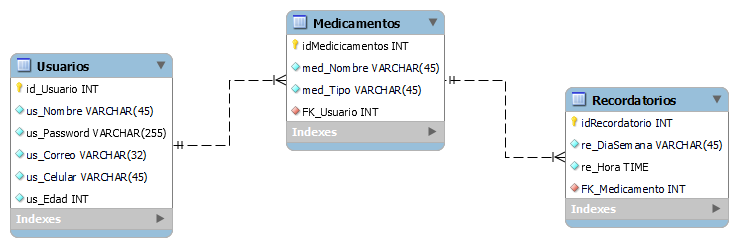
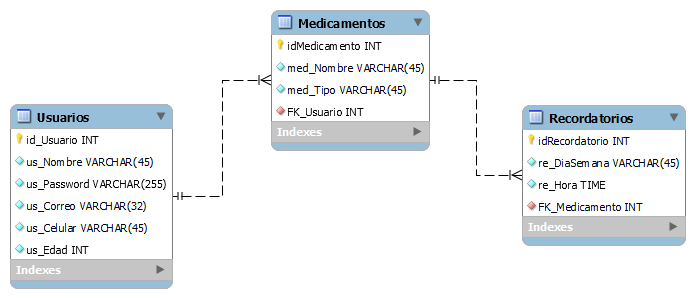
Api medicamentos y recordatorios registrar y ver

Changed region(s): [[0.0, 0.0283, 0.695, 0.9919], [0.6647, 0.3401, 0.9971, 0.9352]]

diff --git a/api/mediApi/rec.js b/api/mediApi/rec.js
@@ -1,0 +1,72 @@
+const express = require('express');
+const router = express.Router();
+var db = require('./db.js');
+
+// registrar recordatorio
+router.route('/register').post((req, res) => {
+    //obtener parametros
+    var diaSemana = req.body.diaSemana;
+    var hora = req.body.hora;
+    var fk_med = req.body.fk_med;
+
+    //crear Query 
+    var sqlQuery = "INSERT INTO Recordatorios(re_DiaSemana, re_Hora, FK_Medicamento) VALUES (?, ?, ?)";
+
+    //llamar a la base de datos para insertar
+    db.query(sqlQuery, [diaSemana, hora, fk_med], function (error, data, fields) {
+        if (error) {
+            //Por si sale mal
+            res.send(JSON.stringify({ success: false, message: error }));
+        } else {
+            //Por si sale bien
+            res.send(JSON.stringify({ success: true, message: 'recordatorio registrado ' }));
+        }
+    });
+
+});
+
+// ver recordatorios por dia de la semana
+router.route('/dia/:idusuario/:diasemana').get((req, res) => {
+    var userId = req.params.idusuario;
+    var diaSemana = req.params.diasemana;
+
+
+    var sql = "select Recordatorios.*, Medicamentos.med_Nombre, Medicamentos.med_Tipo from Recordatorios, Medicamentos, Usuarios where Medicamentos.idMedicamento=Recordatorios.FK_Medicamento and Usuarios.id_Usuario=Medicamentos.FK_Usuario and Usuarios.id_Usuario =? and Recordatorios.re_DiaSemana=? ;";
+    db.query(sql, [userId,diaSemana], function (err, data, fields) {
+        if (err) {
+            res.send(JSON.stringify({ success: false, message: err }));
+        } else {
+            if (data.length > 0) {
+
+                res.send(JSON.stringify({ success: true, recordatorio: data }));
+            } else {
+                res.send(JSON.stringify({ success: false, message: 'No hay recordatorios este dia' }));
+            }
+
+        }
+    });
+});
+
+// ver recordatorios por dia de la medicamento
+router.route('/medi/:idusuario/:idmed').get((req, res) => {
+    var userId = req.params.idusuario;
+    var idMed = req.params.idmed;
+
+
+    var sql = "select Recordatorios.*, Medicamentos.med_Nombre, Medicamentos.med_Tipo from Recordatorios, Medicamentos, Usuarios where Medicamentos.idMedicamento=Recordatorios.FK_Medicamento and Usuarios.id_Usuario=Medicamentos.FK_Usuario and Usuarios.id_Usuario =? and Medicamentos.idMedicamento =? ;";
+    db.query(sql, [userId,idMed], function (err, data, fields) {
+        if (err) {
+            res.send(JSON.stringify({ success: false, message: err }));
+        } else {
+            if (data.length > 0) {
+
+                res.send(JSON.stringify({ success: true, recordatorio: data }));
+            } else {
+                res.send(JSON.stringify({ success: false, message: 'No hay recordatorios de este medicamento' }));
+            }
+
+        }
+    });
+});
+
+module.exports = router;

diff --git a/api/mediApi/med.js b/api/mediApi/med.js
@@ -1,0 +1,46 @@
+const express = require('express');
+const router = express.Router();
+var db = require('./db.js');
+
+router.route('/register').post((req, res) => {
+    //obtener parametros
+    var nombreMed = req.body.nombreMed;
+    var medTipo = req.body.medTipo;
+    var fk_usuario = req.body.fk_usuario;
+
+    //crear Query 
+    var sqlQuery = "INSERT INTO Medicamentos(med_Nombre, med_Tipo, FK_Usuario) VALUES (?, ?, ?)";
+
+    //llamar a la base de datos para insertar
+    db.query(sqlQuery, [nombreMed, medTipo, fk_usuario], function (error, data, fields) {
+        if (error) {
+            //Por si sale mal
+            res.send(JSON.stringify({ success: false, message: error }));
+        } else {
+            //Por si sale bien
+            res.send(JSON.stringify({ success: true, message: 'medicamento registrado ', }));
+        }
+    });
+
+});
+
+router.route('/:id').get((req, res) => {
+    var userId = req.params.id;
+
+    var sql = "SELECT * FROM Medicamentos Where Medicamentos.FK_Usuario = ?;";
+    db.query(sql, [userId], function (err, data, fields) {
+        if (err) {
+            res.send(JSON.stringify({ success: false, message: err }));
+        } else {
+            if (data.length > 0) {
+
+                res.send(JSON.stringify({ success: true, med: data }));
+            } else {
+                res.send(JSON.stringify({ success: false, message: 'No hay medicamentos' }));
+            }
+
+        }
+    });
+});
+
+module.exports = router;

diff --git a/api/mediApi/index.js b/api/mediApi/index.js
@@ -7,7 +7,11 @@ var bodyParser=require('body-parser');
 app.use(express.json());
 app.use(bodyParser.urlencoded({extended:true}));
 const userRouter=require('./user');
+const medRouter= require('./med');
+const recRouter= require('./rec');
 app.use('/user',userRouter);
+app.use('/med',medRouter);
+app.use('/rec',recRouter);
 
 var db=require('./db.js');
 
